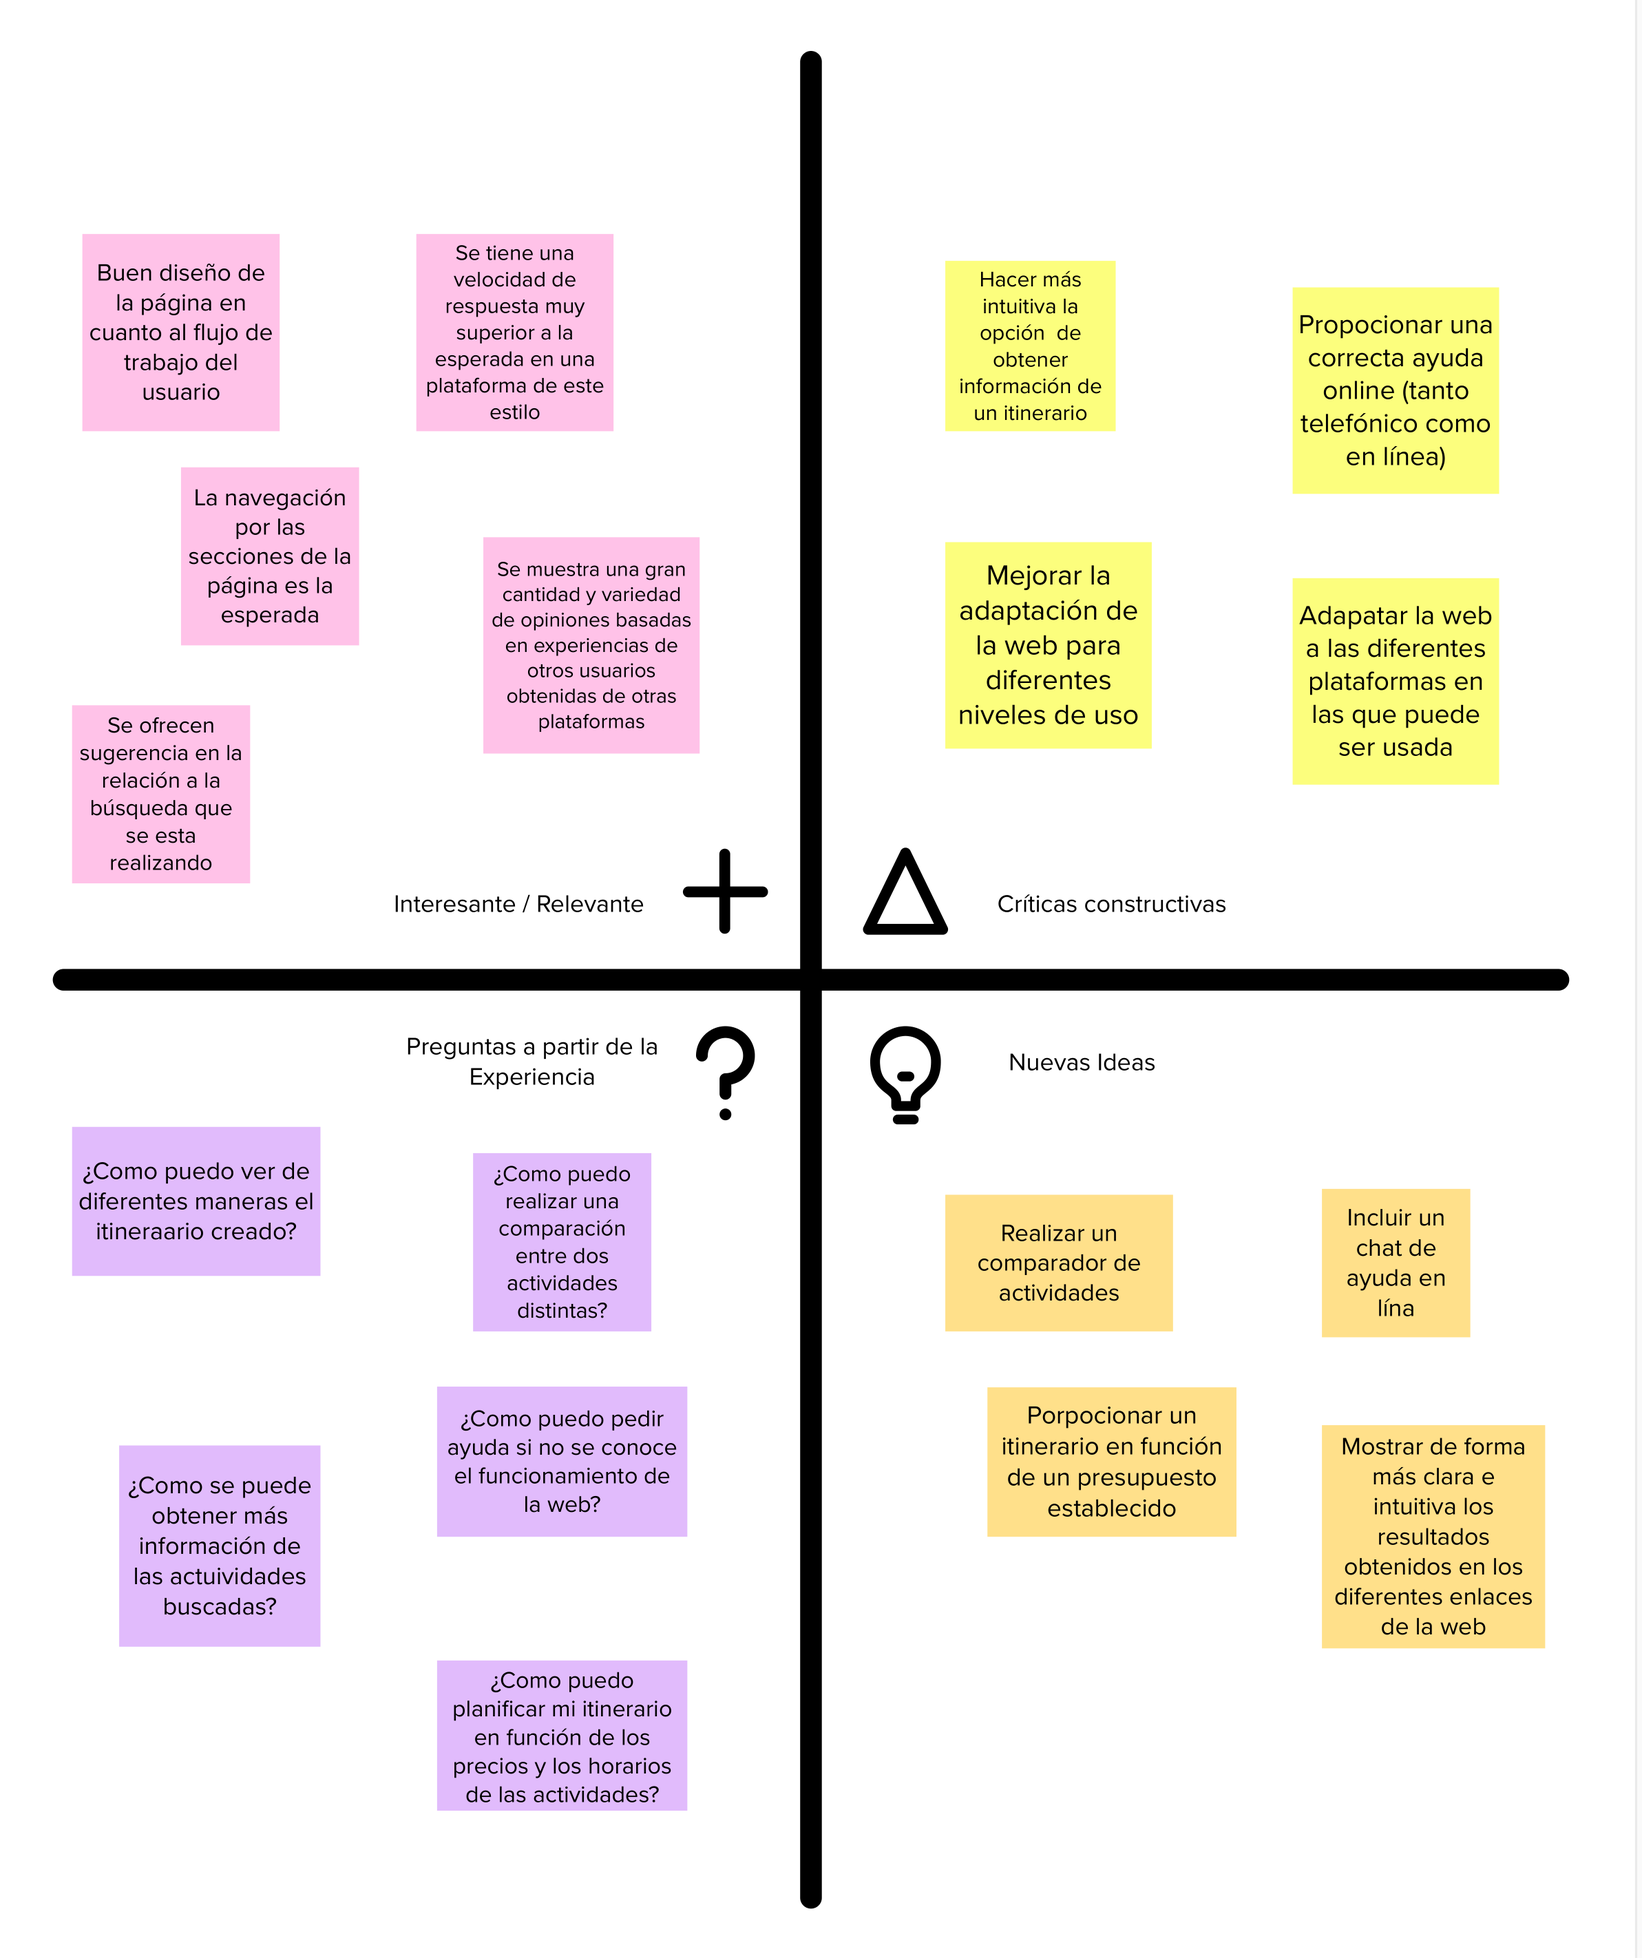
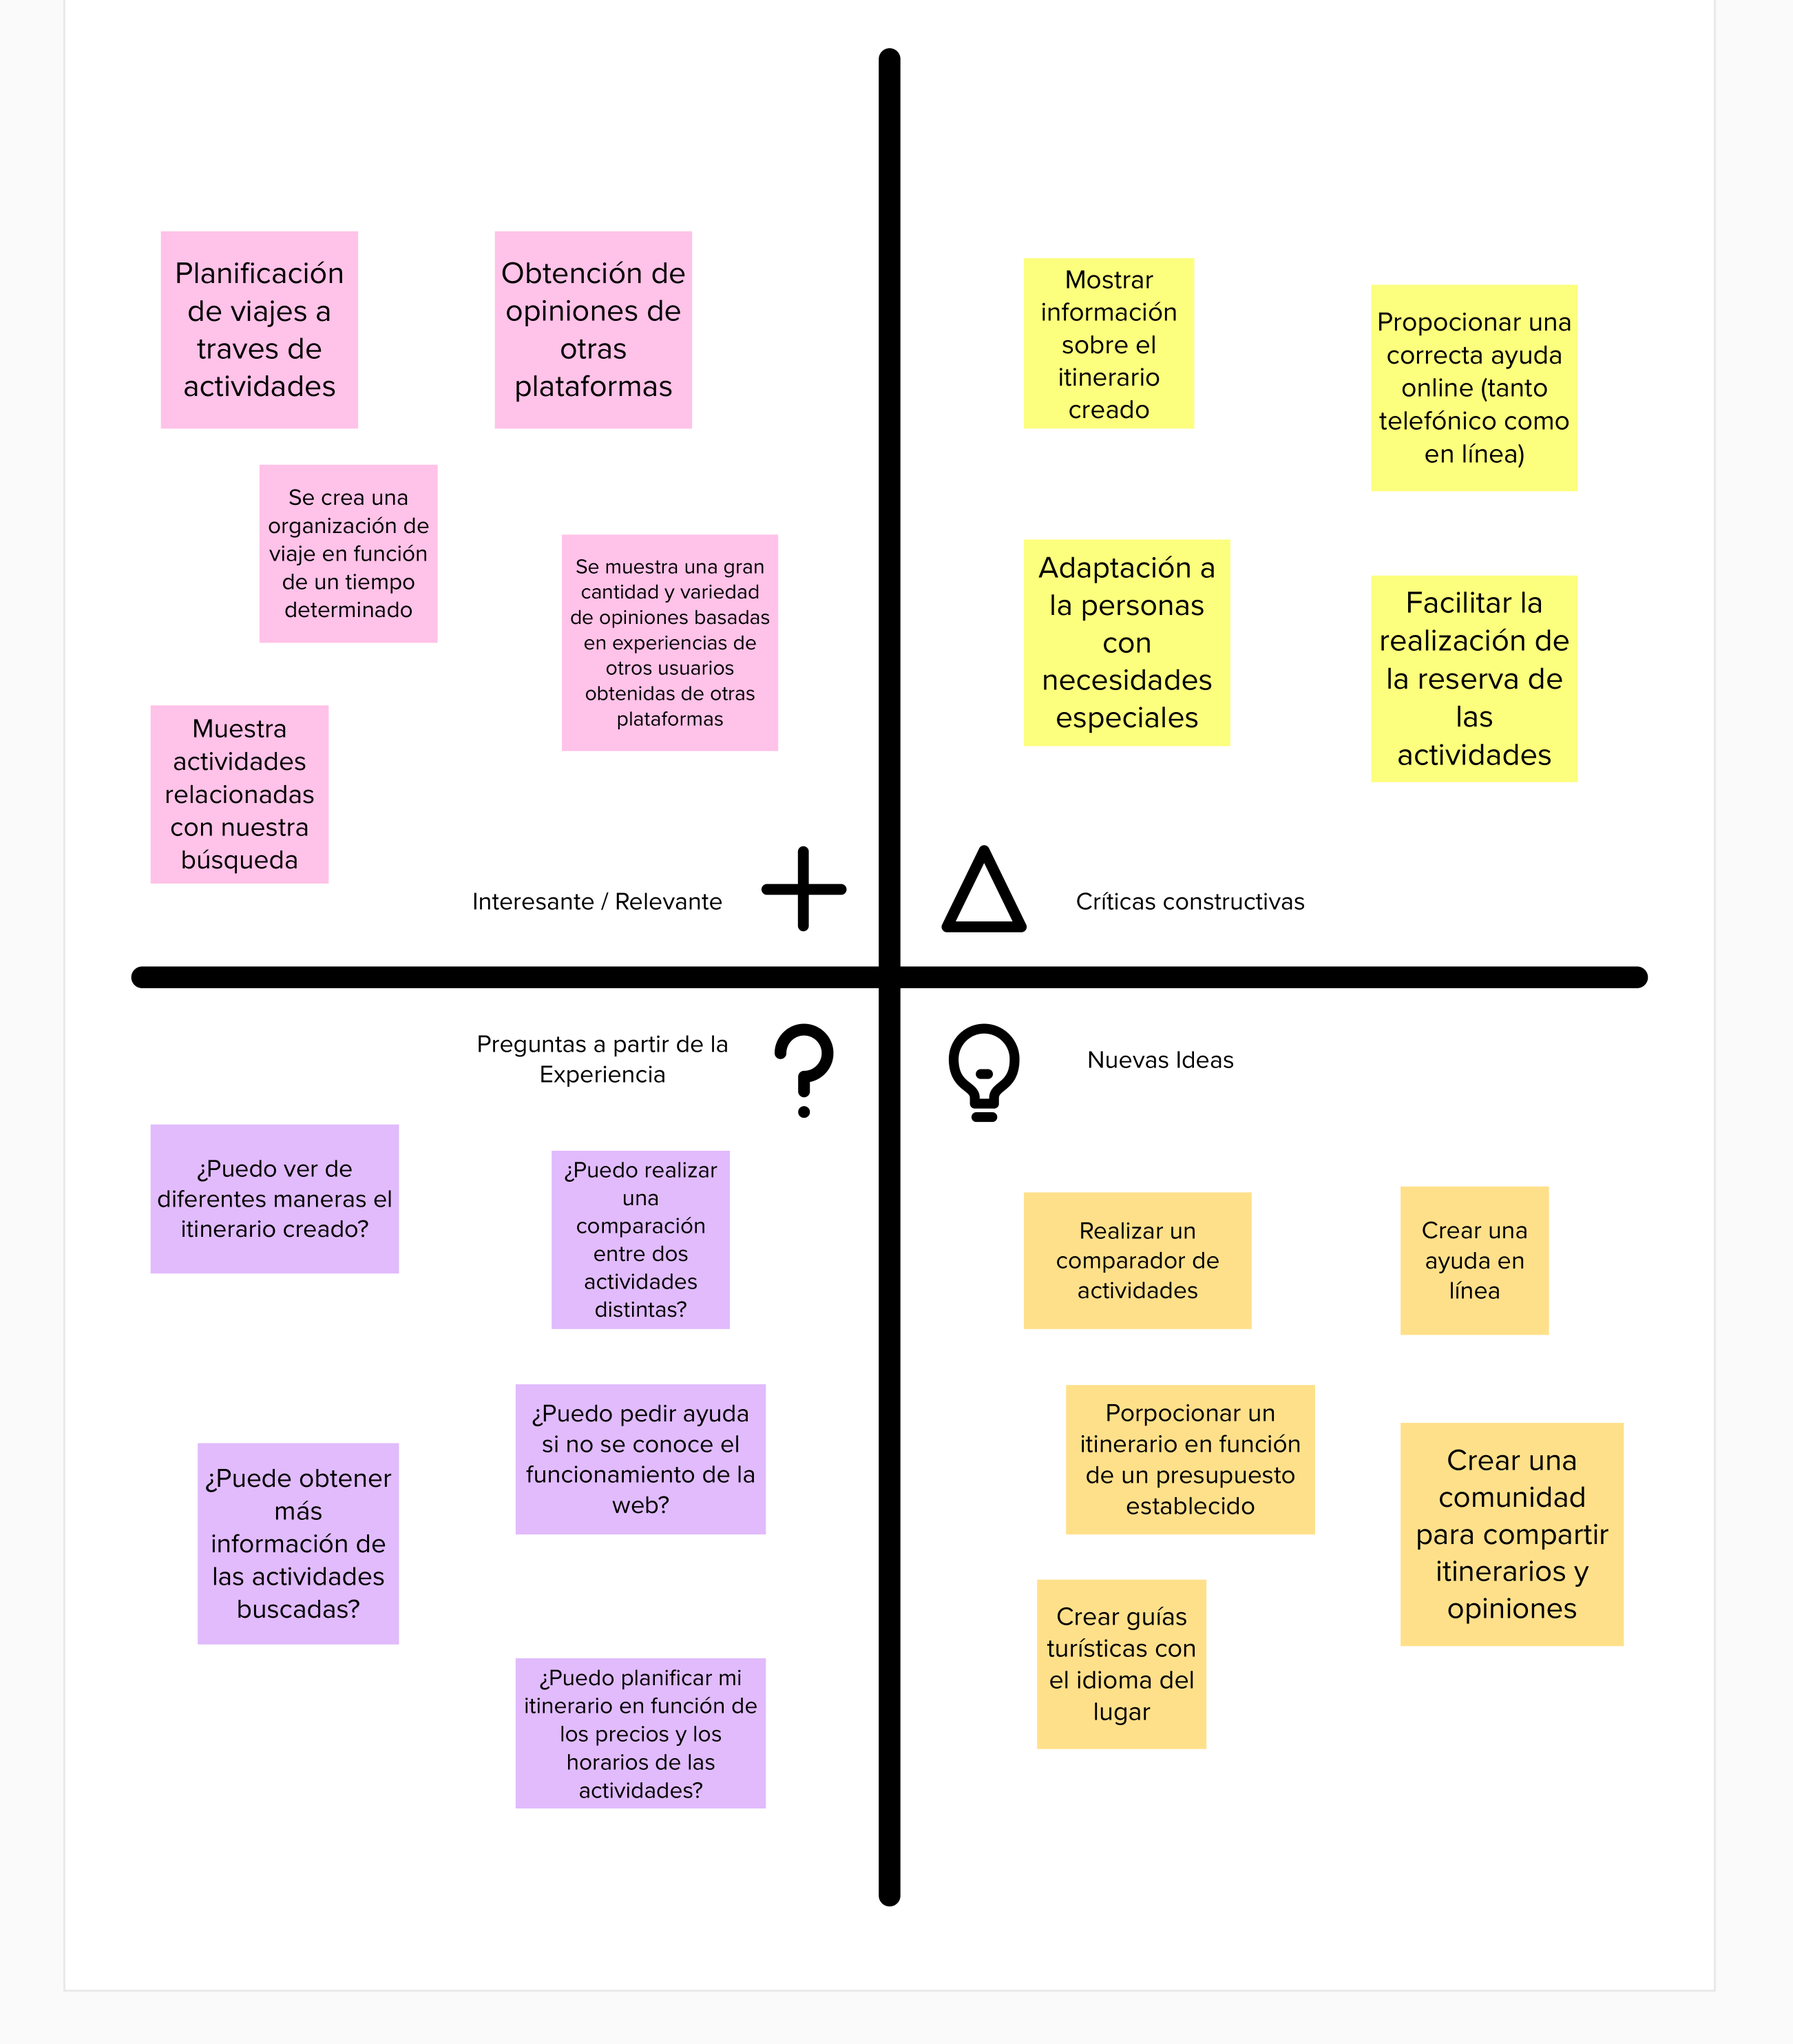
Modificación de la P2 en base a correcciones de la profesora con nuevas cosas

diff --git a/P2/README.md b/P2/README.md
@@ -26,7 +26,7 @@
 
 ### PROPUESTA DE VALOR
 
-Nuestra propuesta de aplicación se centrará en la organización de las actividades de un viaje, realizando un itinerario para este. Los esfuerzos irán dirigidos a intentar que el usuario encuentre actividades de su preferencia, aun si estas son menos habituales o populares. Solo estará centrada en la organización y búsqueda de actividades a realizar y no en la organización completa del viaje (transporte, alojamiento …). 
+Nuestro proyecto llamado Tranger consiste en una plataforma de creación de itinerarios alternativos. Dichos itinerarios pueden ser de diferentes temáticas(cultural, gastronómicos,deportivos,etc) , además se proporcionará una comunidad de la plataforma para consultar las experiencias de los usuarios en estos itinerarios o actividades. Por último se proporciona un guía turístico nativo del lugar que se visita para proporcionar una expercienca más intima y formativa de la actividad.
 
 ![](./recursos/propuesta-de-valor.png)
 
@@ -38,11 +38,19 @@ Hemos decidido usar una matriz de tareas/usuarios(User/task matrix) debido a que
 
 ### ARQUITECTURA DE INFORMACIÓN
 
-* Sitemap 
-* Labelling 
+#### Sitemap
 
+![](./recursos/sitemap.png)
+
+#### Labelling 
+
+En el apartado de labelling vamos a seleccionar los 5 grandes bloques de nuestra plataformas debido a que dentro de ellos las acciones son bastantes concretas.
+
+![](./recursos/labeling.png)
 
 ### Prototipo Lo-FI Wireframe 
+
+
 
 
 ### Conclusiones  
